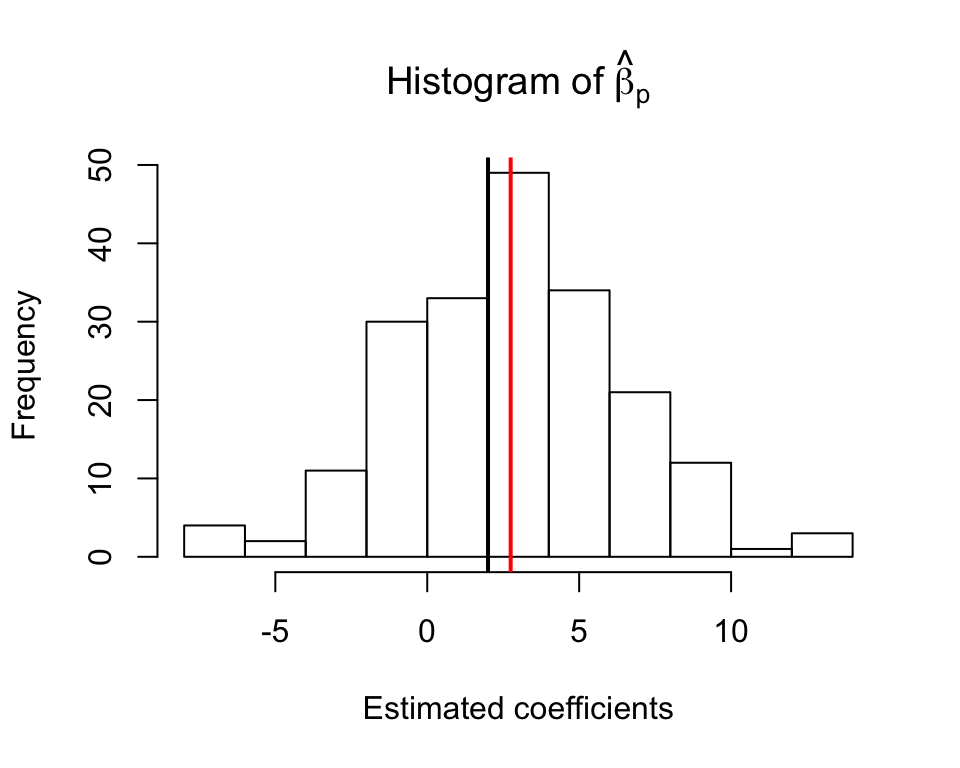
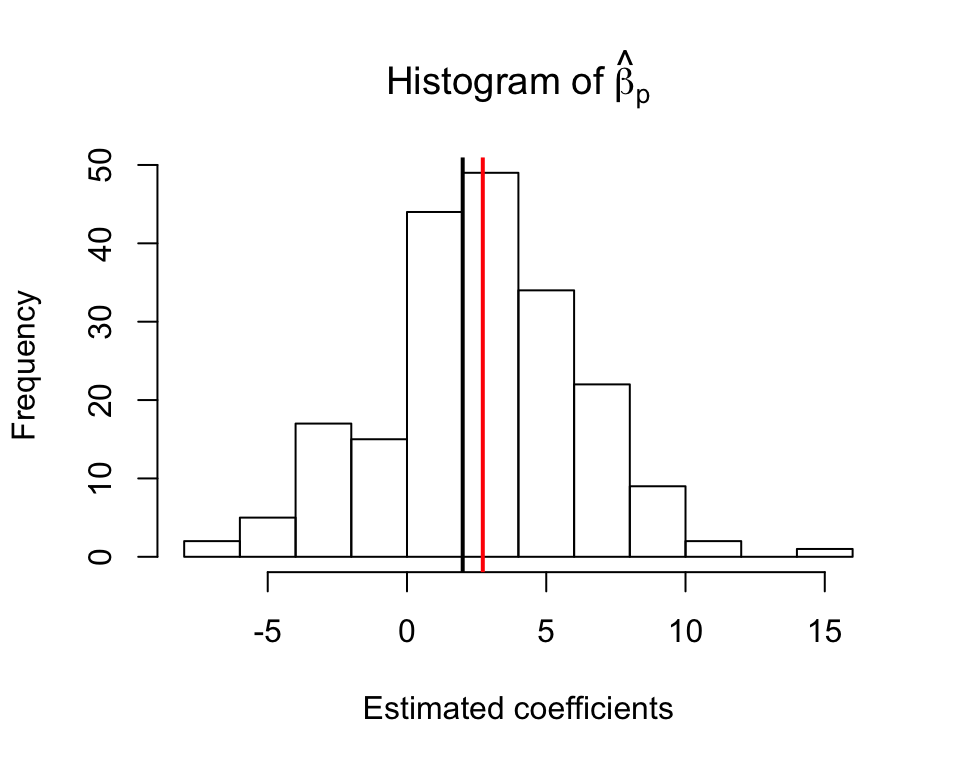
update vignettes and website

diff --git a/docs/articles/my-vignette.html b/docs/articles/my-vignette.html
@@ -120,7 +120,7 @@
 <span class="no">R</span> <span class="kw">&lt;-</span> <span class="fu"><a href="https://rdrr.io/r/base/chol.html">chol</a></span>(<span class="fu"><a href="https://rdrr.io/r/stats/toeplitz.html">toeplitz</a></span>(<span class="fl">0.5</span>^(<span class="fl">0</span>:(<span class="no">p</span> - <span class="fl">1</span>))))
 <span class="no">beta_hat</span> <span class="kw">&lt;-</span> <span class="fu"><a href="https://rdrr.io/r/base/lapply.html">replicate</a></span>(<span class="no">B</span> <span class="kw">&lt;-</span> <span class="fl">200</span>, <span class="fu">sample_logistic</span>(<span class="no">n</span>, <span class="no">p</span>, <span class="no">R</span>))</pre></body></html></div>
 <p><img src="my-vignette_files/figure-html/unnamed-chunk-6-1.png" width="480" style="display: block; margin: auto;"></p>
-<p>As we can see, the estimated <span class="math inline">\(\hat{\beta}\)</span> is not centered at the true value <span class="math inline">\(\beta = 2\)</span> (black line), but at some larger 2.672 (red line). Further, the estimated standard error 3.18 is smaller than the observed standard deviation 3.386 from independent samples.</p>
+<p>As we can see, the estimated <span class="math inline">\(\hat{\beta}\)</span> is not centered at the true value <span class="math inline">\(\beta = 2\)</span> (black line), but at some larger 2.068 (red line). Further, the estimated standard error 3.189 is smaller than the observed standard deviation 3.763 from independent samples.</p>
 <p>The goal of this package is to estimate the inflation and standard deviation of the MLE more accurately than the classical theory. The procedure is based on the asymptotic distribution of the MLE when <span class="math inline">\(n, p\to\infty\)</span> at a fixed ratio <span class="math inline">\(p / n\to \kappa \in (0, 1)\)</span>. Further, the theory requires the variables <span class="math inline">\(X\)</span> to be multivariate Gaussian. Now let’s load the library.</p>
 <div class="sourceCode"><html><body><pre class="r"><span class="fu"><a href="https://rdrr.io/r/base/library.html">library</a></span>(<span class="no">glmhd</span>)</pre></body></html></div>
 <p>Let’s repeat the previous example and compute the MLE. Note here we specify <code>x = TRUE</code> and <code>y = TRUE</code> so the original data matrix is returned in <code>fit</code>.</p>
@@ -131,7 +131,7 @@
 <span class="no">fit</span> <span class="kw">&lt;-</span> <span class="fu"><a href="https://rdrr.io/r/stats/glm.html">glm</a></span>(<span class="no">Y</span> ~ <span class="no">X</span> + <span class="fl">0</span>, <span class="kw">family</span> <span class="kw">=</span> <span class="no">binomial</span>, <span class="kw">x</span> <span class="kw">=</span> <span class="fl">TRUE</span>, <span class="kw">y</span> <span class="kw">=</span> <span class="fl">TRUE</span>)</pre></body></html></div>
 <p>Now we call the function <code>adjust_glm</code> to compute the adjusted MLE and standard error. There are three arguments for this function, but you only need to input the first one, the output <code>glm</code> object. Below, the second argument and third arguments are set at their default values, <code>verbose</code> specifies if progress should be printed, and <code>echo = TRUE</code> means that the input <code>glm</code> object is also returned in the output. By default, <code>verbose = TRUE</code> because it helps to track progress of the code, and identify issues if the algorithm fails.</p>
 <div class="sourceCode"><html><body><pre class="r"><span class="no">adjusted_fit</span> <span class="kw">&lt;-</span> <span class="fu"><a href="../reference/adjust_glm.html">adjust_glm</a></span>(<span class="no">fit</span>, <span class="kw">verbose</span> <span class="kw">=</span> <span class="fl">FALSE</span>, <span class="kw">echo</span> <span class="kw">=</span> <span class="fl">TRUE</span>)</pre></body></html></div>
-<p>We now show you how to access the estimated inflation factor, and how to find the adjusted MLE and their standard error for the last variable. You can compare the estimated inflation 1.323 with the observed value 1.336. As <span class="math inline">\(n, p \to\infty\)</span>, the MLE of any coordinate <span class="math inline">\(\beta_j\)</span> satisfies <span class="math display">\[
+<p>We now show you how to access the estimated inflation factor, and how to find the adjusted MLE and their standard error for the last variable. You can compare the estimated inflation 1.314 with the observed value 1.034. As <span class="math inline">\(n, p \to\infty\)</span>, the MLE of any coordinate <span class="math inline">\(\beta_j\)</span> satisfies <span class="math display">\[
 \frac{\hat{\beta}_j^\mathrm{MLE} - \alpha_\star \beta_j}{\sigma_\star / \tau_j} \stackrel{d}{\longrightarrow} \mathcal{N}(0, 1),
 \]</span> where <span class="math inline">\(\tau^2_j = \mathrm{Var}(x_j\,|\,x_{-j})\)</span> is the conditional variance of <span class="math inline">\(j\)</span>th variable given all the others. <code>adjusted_fit$param["alpha_s"]</code> outputs estimated <span class="math inline">\(\alpha_\star\)</span> and <code>adjusted_fit$param["sigma_s"]</code> outputs estimated <span class="math inline">\(\sqrt{\kappa}\sigma_\star\)</span>. The function computes an estimated standard error for each <span class="math inline">\(\beta_j\)</span>, and the adjusted MLE satisfies <span class="math display">\[
 \frac{\hat{\beta}_j^\mathrm{Adj} - \beta_j}{\hat{\sigma}_j / \alpha_\star} \approx \mathcal{N}(0, 1),
@@ -139,29 +139,29 @@
 <div class="sourceCode"><html><body><pre class="r"><span class="co"># Estimated bias </span>
 <span class="no">adjusted_fit</span>$<span class="no">param</span>[<span class="st">"alpha_s"</span>]
 <span class="co">#&gt; alpha_s </span>
-<span class="co">#&gt;    1.32</span>
+<span class="co">#&gt;    1.31</span>
 <span class="co"># Adjusted MLE</span>
 <span class="no">adjusted_fit</span>$<span class="no">coef_adj</span>[<span class="no">p</span>]
 <span class="co">#&gt; X200 </span>
-<span class="co">#&gt; 7.75</span>
+<span class="co">#&gt; 2.36</span>
 <span class="co"># Adjusted std. </span>
 <span class="no">adjusted_fit</span>$<span class="no">std_adj</span>[<span class="no">p</span>]
 <span class="co">#&gt; X200 </span>
-<span class="co">#&gt; 3.91</span></pre></body></html></div>
+<span class="co">#&gt; 3.81</span></pre></body></html></div>
 <p>The function <code>summary</code> prints the coefficient table.</p>
 <div class="sourceCode"><html><body><pre class="r"><span class="fu"><a href="https://rdrr.io/r/base/print.html">print</a></span>(<span class="fu"><a href="https://rdrr.io/r/base/summary.html">summary</a></span>(<span class="no">adjusted_fit</span>), <span class="kw">max</span> <span class="kw">=</span> <span class="fl">40</span>)
 <span class="co">#&gt; Call:</span>
 <span class="co">#&gt; adjust_glm(glm_output = fit, verbose = FALSE, echo = TRUE)</span>
 <span class="co">#&gt; </span>
 <span class="co">#&gt;      adjusted_mle adjusted_std t.value p.value   </span>
-<span class="co">#&gt; X1         0.2250       2.9317    0.08  0.9388   </span>
-<span class="co">#&gt; X2        -5.0614       3.2124   -1.58  0.1151   </span>
-<span class="co">#&gt; X3         3.5247       3.2461    1.09  0.2776   </span>
-<span class="co">#&gt; X4        -6.4565       3.5133   -1.84  0.0661 . </span>
-<span class="co">#&gt; X5         1.6164       3.3779    0.48  0.6323   </span>
-<span class="co">#&gt; X6        -1.2199       3.2302   -0.38  0.7057   </span>
-<span class="co">#&gt; X7         1.0439       3.2673    0.32  0.7493   </span>
-<span class="co">#&gt; X8        -5.3552       3.3255   -1.61  0.1073   </span>
+<span class="co">#&gt; X1       -0.71211      2.86276   -0.25  0.8036   </span>
+<span class="co">#&gt; X2        2.03507      3.31117    0.61  0.5388   </span>
+<span class="co">#&gt; X3       -2.39009      3.29432   -0.73  0.4681   </span>
+<span class="co">#&gt; X4       -0.91846      3.18423   -0.29  0.7730   </span>
+<span class="co">#&gt; X5        4.85006      3.19446    1.52  0.1289   </span>
+<span class="co">#&gt; X6       -7.27673      3.30911   -2.20  0.0279 * </span>
+<span class="co">#&gt; X7        4.61155      3.28138    1.41  0.1599   </span>
+<span class="co">#&gt; X8       -2.70353      3.22414   -0.84  0.4017   </span>
 <span class="co">#&gt;  [ reached getOption("max.print") -- omitted 192 rows ]</span>
 <span class="co">#&gt; ---</span>
 <span class="co">#&gt; Signif. codes:  0 '***' 0.001 '**' 0.01 '*' 0.05 '.' 0.1 ' ' 1</span></pre></body></html></div>
@@ -191,8 +191,8 @@ H_0:\quad \beta_1 = \ldots = \beta_k = 0,
 <span class="co">#&gt; </span>
 <span class="co">#&gt; $anova.tab</span>
 <span class="co">#&gt;   Resid.Df Resid.Dev Df Deviance p.value</span>
-<span class="co">#&gt; 1      801       936 NA       NA      NA</span>
-<span class="co">#&gt; 2      800       936  1  0.00778   0.939</span>
+<span class="co">#&gt; 1      801       950 NA       NA      NA</span>
+<span class="co">#&gt; 2      800       949  1   0.0801   0.805</span>
 <span class="co">#&gt; </span>
 <span class="co">#&gt; attr(,"class")</span>
 <span class="co">#&gt; [1] "lrt_adj"</span></pre></body></html></div>
@@ -212,7 +212,7 @@ H_0:\quad \beta_1 = \ldots = \beta_k = 0,
 <p>You can find the estimated intercept (not the MLE) as follows.</p>
 <div class="sourceCode"><html><body><pre class="r"><span class="no">adjusted_fit</span>$<span class="no">intercept</span>
 <span class="co">#&gt; (Intercept) </span>
-<span class="co">#&gt;      -0.459</span></pre></body></html></div>
+<span class="co">#&gt;      -0.422</span></pre></body></html></div>
 <p>You can also find the estimated bias and standard deviation as before. The asymptotic theory is similar to the previous case, where again <span class="math display">\[
   \frac{\hat{\beta}_j^\mathrm{MLE} - \alpha_\star \beta_j}{\sigma_\star / \tau_j} \stackrel{d}{\longrightarrow} \mathcal{N}(0, 1),
   \]</span> and further, the MLE of the intercept converges to some fixed quantity <span class="math display">\[
@@ -221,18 +221,18 @@ H_0:\quad \beta_1 = \ldots = \beta_k = 0,
 <div class="sourceCode"><html><body><pre class="r"><span class="co"># Estimated inflation and std.</span>
 <span class="no">adjusted_fit</span>$<span class="no">param</span>[<span class="st">"alpha_s"</span>]
 <span class="co">#&gt; alpha_s </span>
-<span class="co">#&gt;    1.34</span>
+<span class="co">#&gt;    1.33</span>
 <span class="no">adjusted_fit</span>$<span class="no">param</span>[<span class="st">"sigma_s"</span>] / <span class="fu"><a href="https://rdrr.io/r/base/MathFun.html">sqrt</a></span>(<span class="no">p</span>/<span class="no">n</span>)
 <span class="co">#&gt; sigma_s </span>
-<span class="co">#&gt;    3.51</span>
+<span class="co">#&gt;     3.4</span>
 <span class="co"># Adjusted MLE</span>
 <span class="no">adjusted_fit</span>$<span class="no">coef_adj</span>[<span class="no">p</span>]
 <span class="co">#&gt; X200 </span>
-<span class="co">#&gt; 4.41</span>
+<span class="co">#&gt; 3.25</span>
 <span class="co"># Adjusted std.</span>
 <span class="no">adjusted_fit</span>$<span class="no">std_adj</span>[<span class="no">p</span>]
 <span class="co">#&gt; X200 </span>
-<span class="co">#&gt; 4.06</span></pre></body></html></div>
+<span class="co">#&gt; 3.82</span></pre></body></html></div>
 <p>In this example, we can compute the true parameters and compare them with the estimates. Notice that the input <code>beta_0</code> for <code>find_param</code> is the absolute value of the intercept <span class="math inline">\(\beta_0\)</span>.</p>
 <div class="sourceCode"><html><body><pre class="r"><span class="no">gamma</span> <span class="kw">&lt;-</span> <span class="fu"><a href="https://rdrr.io/r/base/MathFun.html">sqrt</a></span>(<span class="fu"><a href="https://rdrr.io/r/base/sum.html">sum</a></span>((<span class="no">R</span> <span class="kw">%*%</span> <span class="no">beta</span>)^<span class="fl">2</span>/<span class="no">n</span>))
 <span class="no">params</span> <span class="kw">&lt;-</span> <span class="fu"><a href="../reference/find_param.html">find_param</a></span>(<span class="kw">kappa</span> <span class="kw">=</span> <span class="no">p</span>/<span class="no">n</span>, <span class="kw">gamma</span> <span class="kw">=</span> <span class="no">gamma</span>, <span class="kw">beta0</span> <span class="kw">=</span> <span class="fl">0.5</span>, <span class="kw">verbose</span> <span class="kw">=</span> <span class="fl">FALSE</span>)
@@ -240,7 +240,7 @@ H_0:\quad \beta_1 = \ldots = \beta_k = 0,
 <span class="co">#&gt; [1] 1.33</span>
 <span class="no">params</span>[<span class="fl">3</span>] / <span class="fu"><a href="https://rdrr.io/r/base/MathFun.html">sqrt</a></span>(<span class="no">p</span>/<span class="no">n</span>) <span class="co"># true sigma_star</span>
 <span class="co">#&gt; [1] 3.44</span></pre></body></html></div>
-<p>You can compare also these estimates from observations from repeated samples. The observed average of <span class="math inline">\(\hat{\beta}^\mathrm{MLE}_p\)</span> is shown in black line, and its true value is shown in red line.</p>
+<p>You can compare also these estimates from observations from repeated samples. The observed average of <span class="math inline">\(\hat{\beta}^\mathrm{MLE}_p\)</span> is shown in red line, and its true value is shown in black line.</p>
 <div class="sourceCode"><html><body><pre class="r"><span class="no">sample_logistic_intercept</span> <span class="kw">&lt;-</span> <span class="kw">function</span>(<span class="no">n</span>, <span class="no">p</span>, <span class="no">R</span>){
   <span class="no">X</span> <span class="kw">&lt;-</span> <span class="fu"><a href="https://rdrr.io/r/base/matrix.html">matrix</a></span>(<span class="fu"><a href="https://rdrr.io/r/stats/Normal.html">rnorm</a></span>(<span class="no">n</span> * <span class="no">p</span>, <span class="fl">0</span>, <span class="fl">1</span>), <span class="no">n</span>, <span class="no">p</span>) <span class="kw">%*%</span> <span class="no">R</span> / <span class="fu"><a href="https://rdrr.io/r/base/MathFun.html">sqrt</a></span>(<span class="no">n</span>)
   <span class="no">beta</span> <span class="kw">&lt;-</span> <span class="fu"><a href="https://rdrr.io/r/base/rep.html">rep</a></span>(<span class="fu"><a href="https://rdrr.io/r/base/c.html">c</a></span>(<span class="fl">0</span>, <span class="fl">2</span>), <span class="kw">each</span> <span class="kw">=</span>  <span class="no">p</span> / <span class="fl">2</span>)
@@ -251,7 +251,7 @@ H_0:\quad \beta_1 = \ldots = \beta_k = 0,
 }</pre></body></html></div>
 <div class="sourceCode"><html><body><pre class="r"><span class="no">beta_hat</span> <span class="kw">&lt;-</span> <span class="fu"><a href="https://rdrr.io/r/base/lapply.html">replicate</a></span>(<span class="no">B</span>, <span class="fu">sample_logistic_intercept</span>(<span class="no">n</span>, <span class="no">p</span>, <span class="no">R</span>))</pre></body></html></div>
 <p><img src="my-vignette_files/figure-html/unnamed-chunk-19-1.png" width="480" style="display: block; margin: auto;"></p>
-<p>The observed inflation is 1.373 and observed standard deviation is 3.724.</p>
+<p>The observed inflation is 1.361 and observed standard deviation is 3.553.</p>
 </div>
 <div id="other-link-functions" class="section level4">
 <h4 class="hasAnchor">

diff --git a/docs/index.html b/docs/index.html
@@ -88,8 +88,9 @@
 <p>You can install the package using</p>
 <div class="sourceCode"><pre class="r"><span class="fu"><a href="https://rdrr.io/r/utils/install.packages.html">install.packages</a></span>(<span class="st">"devtools"</span>)
 <span class="kw pkg">devtools</span><span class="kw ns">::</span><span class="fu"><a href="https://devtools.r-lib.org//reference/remote-reexports.html">install_github</a></span>(<span class="st">"zq00/glmhd"</span>)</pre></div>
-<p>To get started, you can take a look at package vignettes (it takes about 20 min to knit the whole document, feel free to download the markdown file and run code line by line). To install with vignettes, run</p>
+<p>To get started, you can take a look at package vignettes (at “Articles”). To install with vignettes, run</p>
 <div class="sourceCode"><pre class="r"><span class="kw pkg">devtools</span><span class="kw ns">::</span><span class="fu"><a href="https://devtools.r-lib.org//reference/remote-reexports.html">install_github</a></span>(<span class="st">"zq00/glmhd"</span>, <span class="kw">build_vignettes</span> <span class="kw">=</span> <span class="fl">TRUE</span>)</pre></div>
+<p>It takes about 20 min to knit the whole document, so feel free to download the markdown file and run code line by line.</p>
 <p>Alternatively, you can start by checking documentation for function <code>adjust_glm</code>.</p>
 <p>You can read more about the theory of high dimensional logistic MLE <a href="https://arxiv.org/abs/2001.09351">here</a>.</p>
 <p>If you encounter errors or would like to provide feedbacks, please use Github -&gt; Issues to reach us. Thank you!</p>
